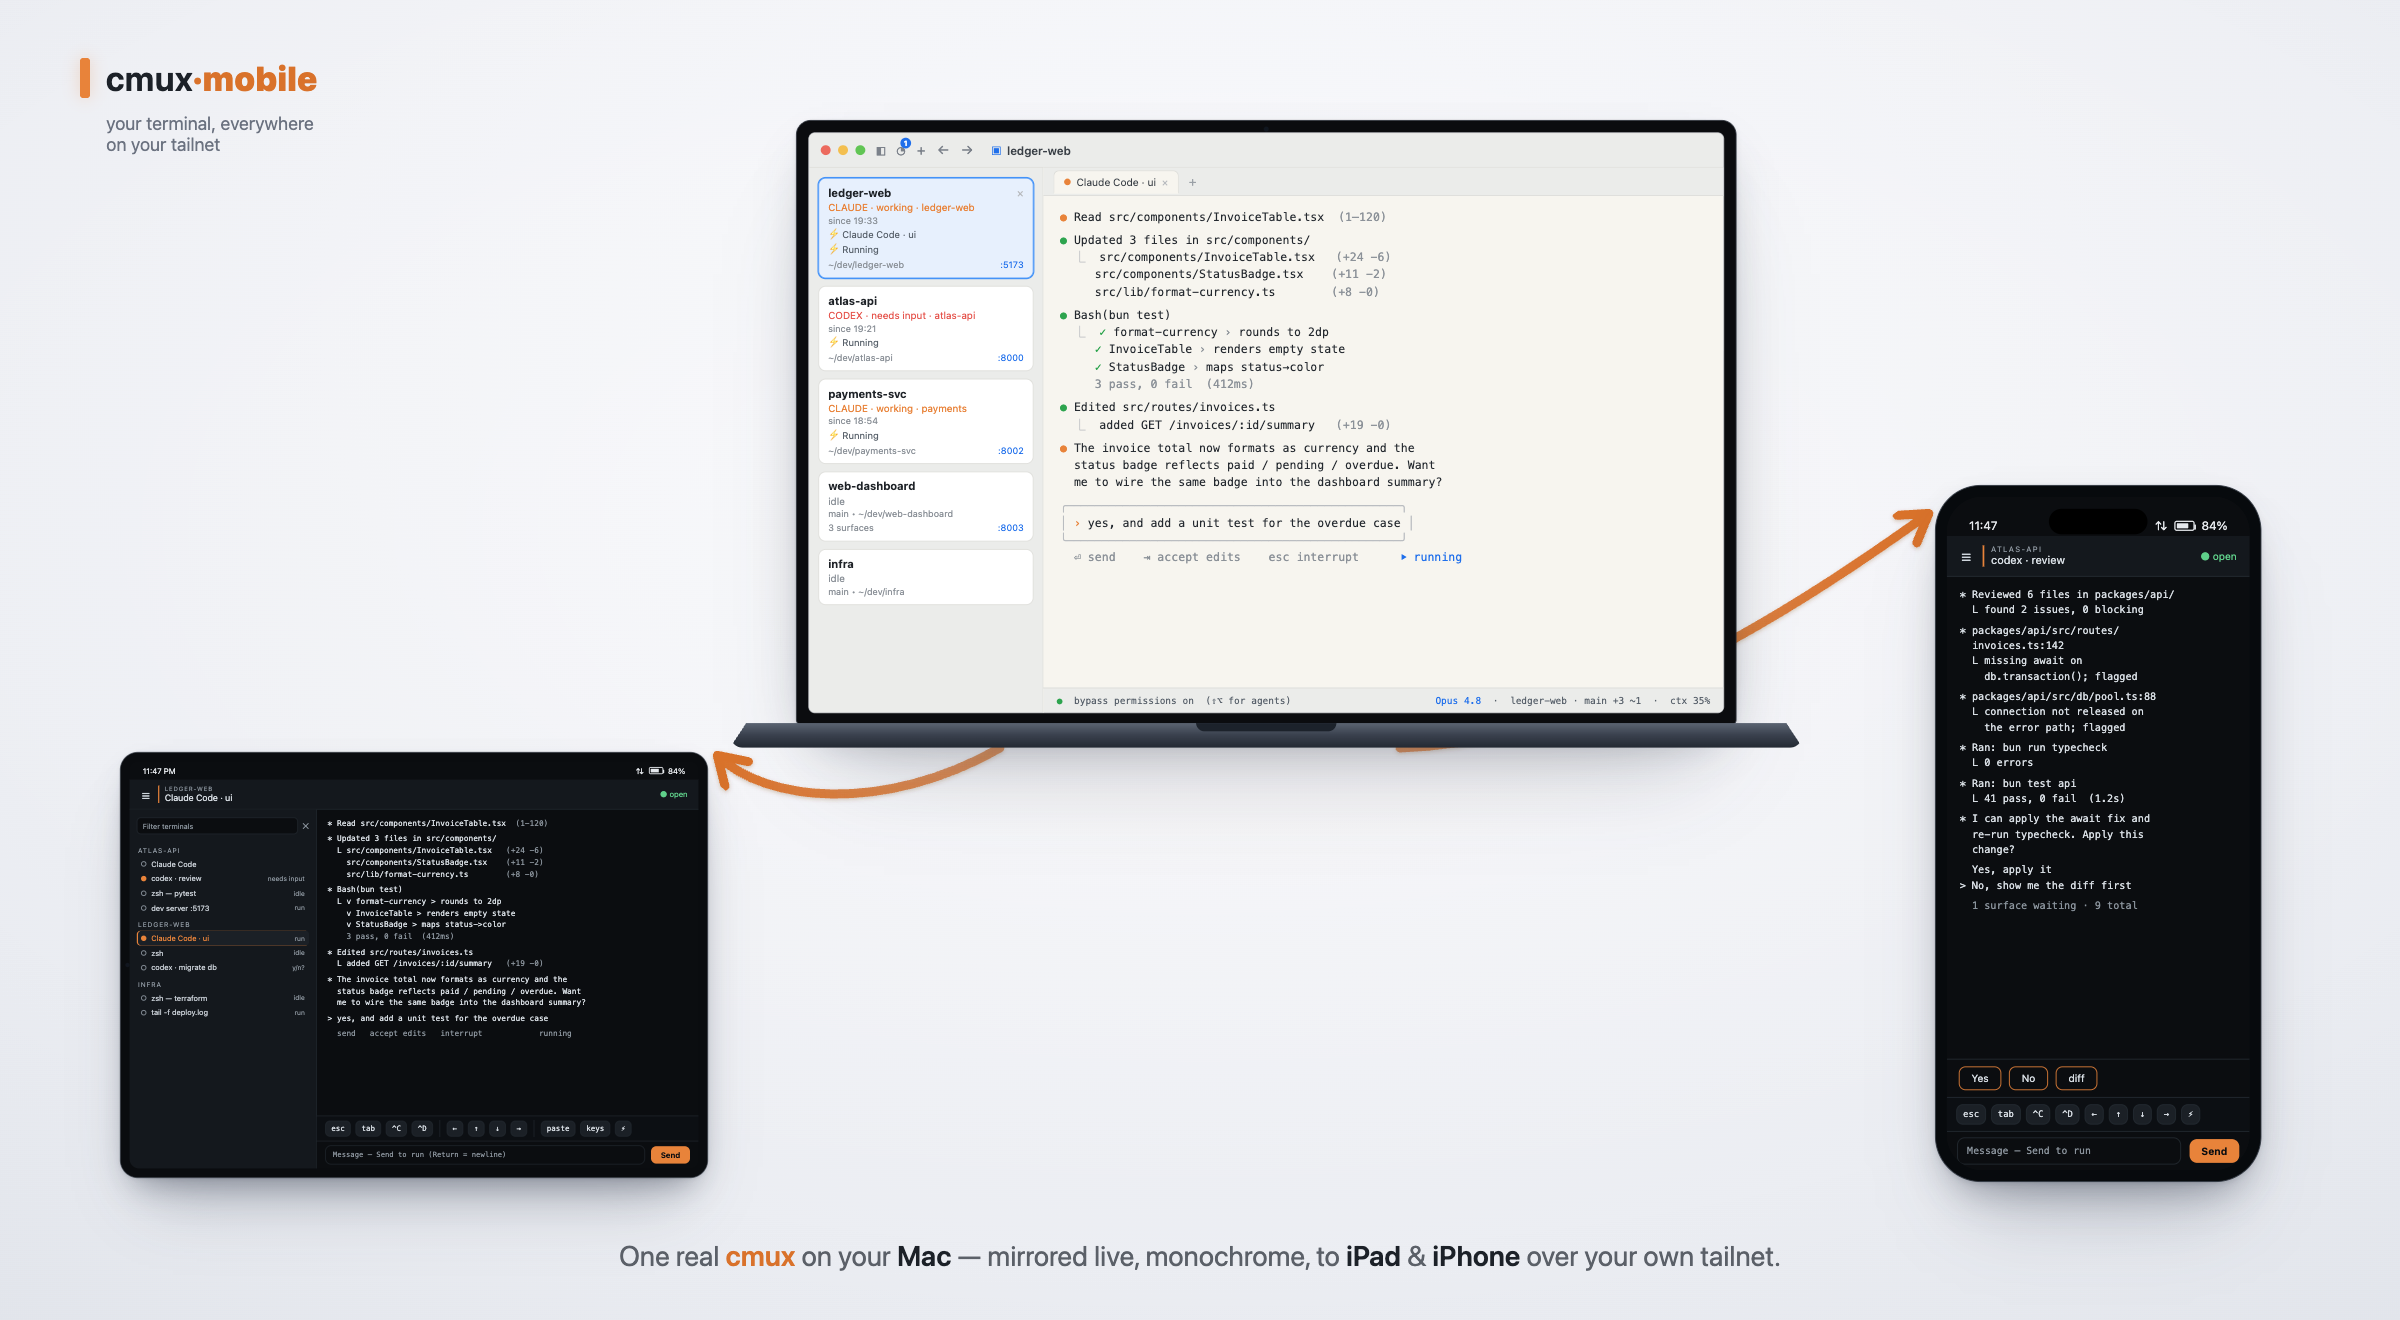
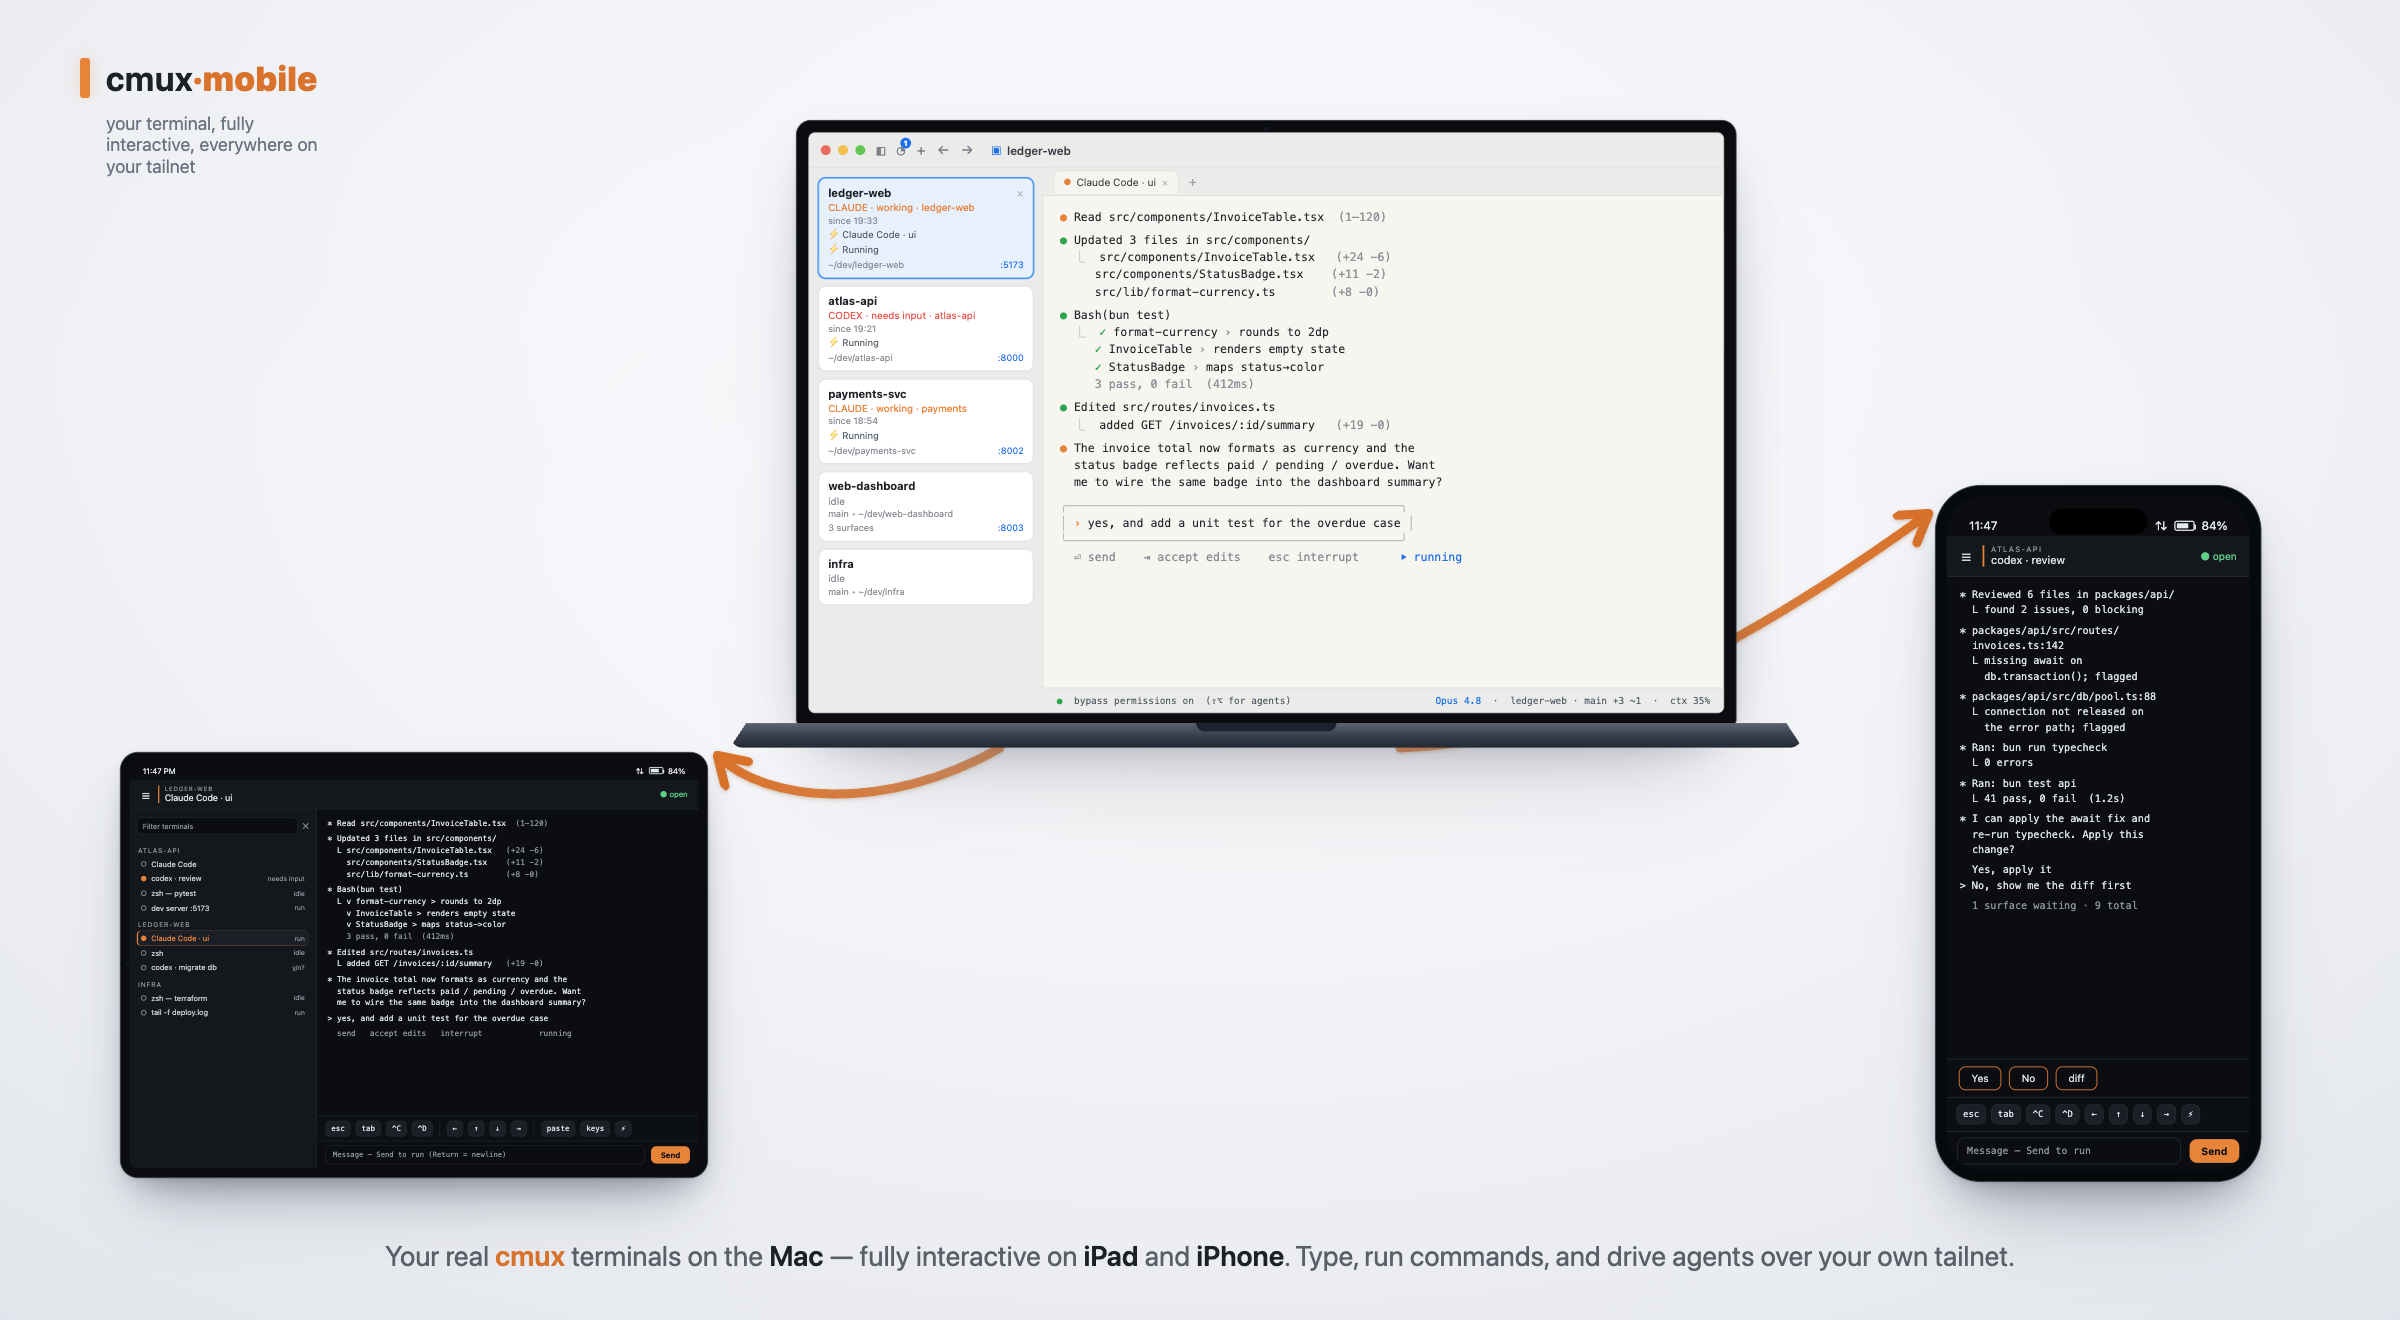
Reframe as a full interactive terminal (drop 'mirror' framing), pair 'terminal' with cmux, fix auth-default docs, update hero copy

Changed region(s): [[0.1562, 0.9318, 0.8438, 0.9629], [0.0312, 0.0932, 0.125, 0.1242]]

diff --git a/README.md b/README.md
@@ -1,14 +1,16 @@
 # cmux-mobile
 
-![cmux-mobile — the same cmux session, live on your Mac, iPad, and iPhone](assets/hero.png)
+**A full, interactive terminal on your phone — drive your Mac's real cmux terminal sessions from iPhone or iPad, over your own Tailscale tailnet.**
 
-Drive your **local [cmux](https://cmux.com) terminal/agent sessions from an iPhone/iPad** — full interactive control, over your own Tailscale tailnet, with no cmux cloud account and no app to install on the phone.
+![cmux-mobile — your real cmux terminal sessions, fully interactive on Mac, iPad, and iPhone](assets/hero.png)
 
-cmux exposes its panes only through a local Unix-domain socket. `cmux-mobile` is a small **bridge** that runs on your Mac, speaks that socket, and serves a **web app (PWA)** you open in mobile Safari and add to your Home Screen. Traffic stays inside your tailnet (WireGuard-encrypted); nothing goes to a third party.
+Drive your Mac's real **[cmux](https://cmux.com) terminal sessions from an iPhone or iPad** — a full, interactive terminal in your pocket: type, run commands, and steer coding agents in your actual Mac panes, over your own Tailscale tailnet, with no cmux cloud account and no app to install on the phone.
+
+cmux exposes its panes only through a local Unix-domain socket. `cmux-mobile` is a small **bridge** that runs on your Mac, speaks that socket, and serves a **web app (PWA)** you open in mobile Safari and add to your Home Screen — a real, drivable terminal, not a viewer. Traffic stays inside your tailnet (WireGuard-encrypted); nothing goes to a third party.
 
 ## Prerequisites
 
-- **[cmux](https://cmux.com)** installed and running on macOS (**≥ 0.64**) — the terminal multiplexer this app bridges to. cmux-mobile does nothing on its own; it mirrors a cmux that's already running.
+- **[cmux](https://cmux.com)** installed and running on macOS (**≥ 0.64**) — the terminal multiplexer this app bridges to. cmux-mobile does nothing on its own; it connects to a cmux terminal that's already running and gives you full interactive control of its panes from your phone.
 - **[Tailscale](https://tailscale.com)** installed and signed in on **both** the Mac **and** the phone, on the same tailnet.
 - **[Bun](https://bun.sh)** on the Mac (`brew install oven-sh/bun/bun`) — cmux-mobile is a Bun program.
 
@@ -24,7 +26,7 @@ The bridge prints a URL like `http://100.x.y.z:4380` (your Mac's tailnet IP). Pr
 ## On the phone (same tailnet)
 
 1. Open that URL in **Safari**.
-2. In the default **`tailnet`** auth mode you're connected immediately (any device on your own tailnet, no code). In `token` mode, enter the 6-digit pairing code from the log — or mint one headlessly from the repo: `bun run dist/cli.js pair add "iPhone"` (prints a one-tap URL).
+2. After `bun run setup` (which runs in **`tailnet`** mode) you're connected immediately — any device on your own tailnet, no code. If you instead run `bun run bridge` (which defaults to **`token`** mode), enter the 6-digit pairing code from the log — or mint one headlessly from the repo: `bun run dist/cli.js pair add "iPhone"` (prints a one-tap URL).
 3. **Share → Add to Home Screen** for a full-screen app.
 
 Pick a terminal from the ☰ menu, tap the compose bar to type, Send to run, and use the bottom toolbar for `esc` / `^C` / arrows / a "more keys" sheet. Scroll to the top for history; tap the title to copy `workspace / tab`.
@@ -43,11 +45,13 @@ bun run dist/cli.js uninstall   # remove the launchd agent
 |---|---|---|
 | `CMUX_BRIDGE_HOST` | auto (tailnet IP, else loopback) | bind address |
 | `CMUX_BRIDGE_PORT` | `4380` | listen port |
-| `CMUX_BRIDGE_AUTH` | `tailnet` | `tailnet` = any device on your own tailnet, no code; `token` = identity + per-device bearer token; `off` = no gating (local dev only) |
+| `CMUX_BRIDGE_AUTH` | `token` (code default); `tailnet` (set by `bun run setup`) | `tailnet` = any device on your own tailnet, no code; `token` = identity + per-device bearer token; `off` = no gating (local dev only) |
 | `CMUX_BRIDGE_NOTIFY_URL` | — | optional [ntfy](https://ntfy.sh) topic / webhook POSTed when a surface needs input (e.g. an agent hits `[y/n]`) — works even with the PWA closed |
 | `CMUX_BRIDGE_LABEL` | `dev.cmuxmobile.bridge` | launchd agent label |
 
-> Note: the mirror is **monochrome** — cmux's socket returns plain UTF-8 (no ANSI colour). The Claude/Codex TUIs, vim, etc. are fully readable and drivable, just flat.
+> The code default is `token`; the launchd agent installed by `bun run setup` sets `CMUX_BRIDGE_AUTH=tailnet`. So `bun run bridge` with no env demands a pairing token, while the `setup` install lets any device on your own tailnet connect with no code.
+
+> Note: the rendered screen text is **monochrome** — cmux's socket returns plain UTF-8 with no ANSI colour, so the screen arrives flat. The Claude/Codex TUIs, vim, etc. are fully readable and fully drivable, just without colour.
 
 ## Security
 
